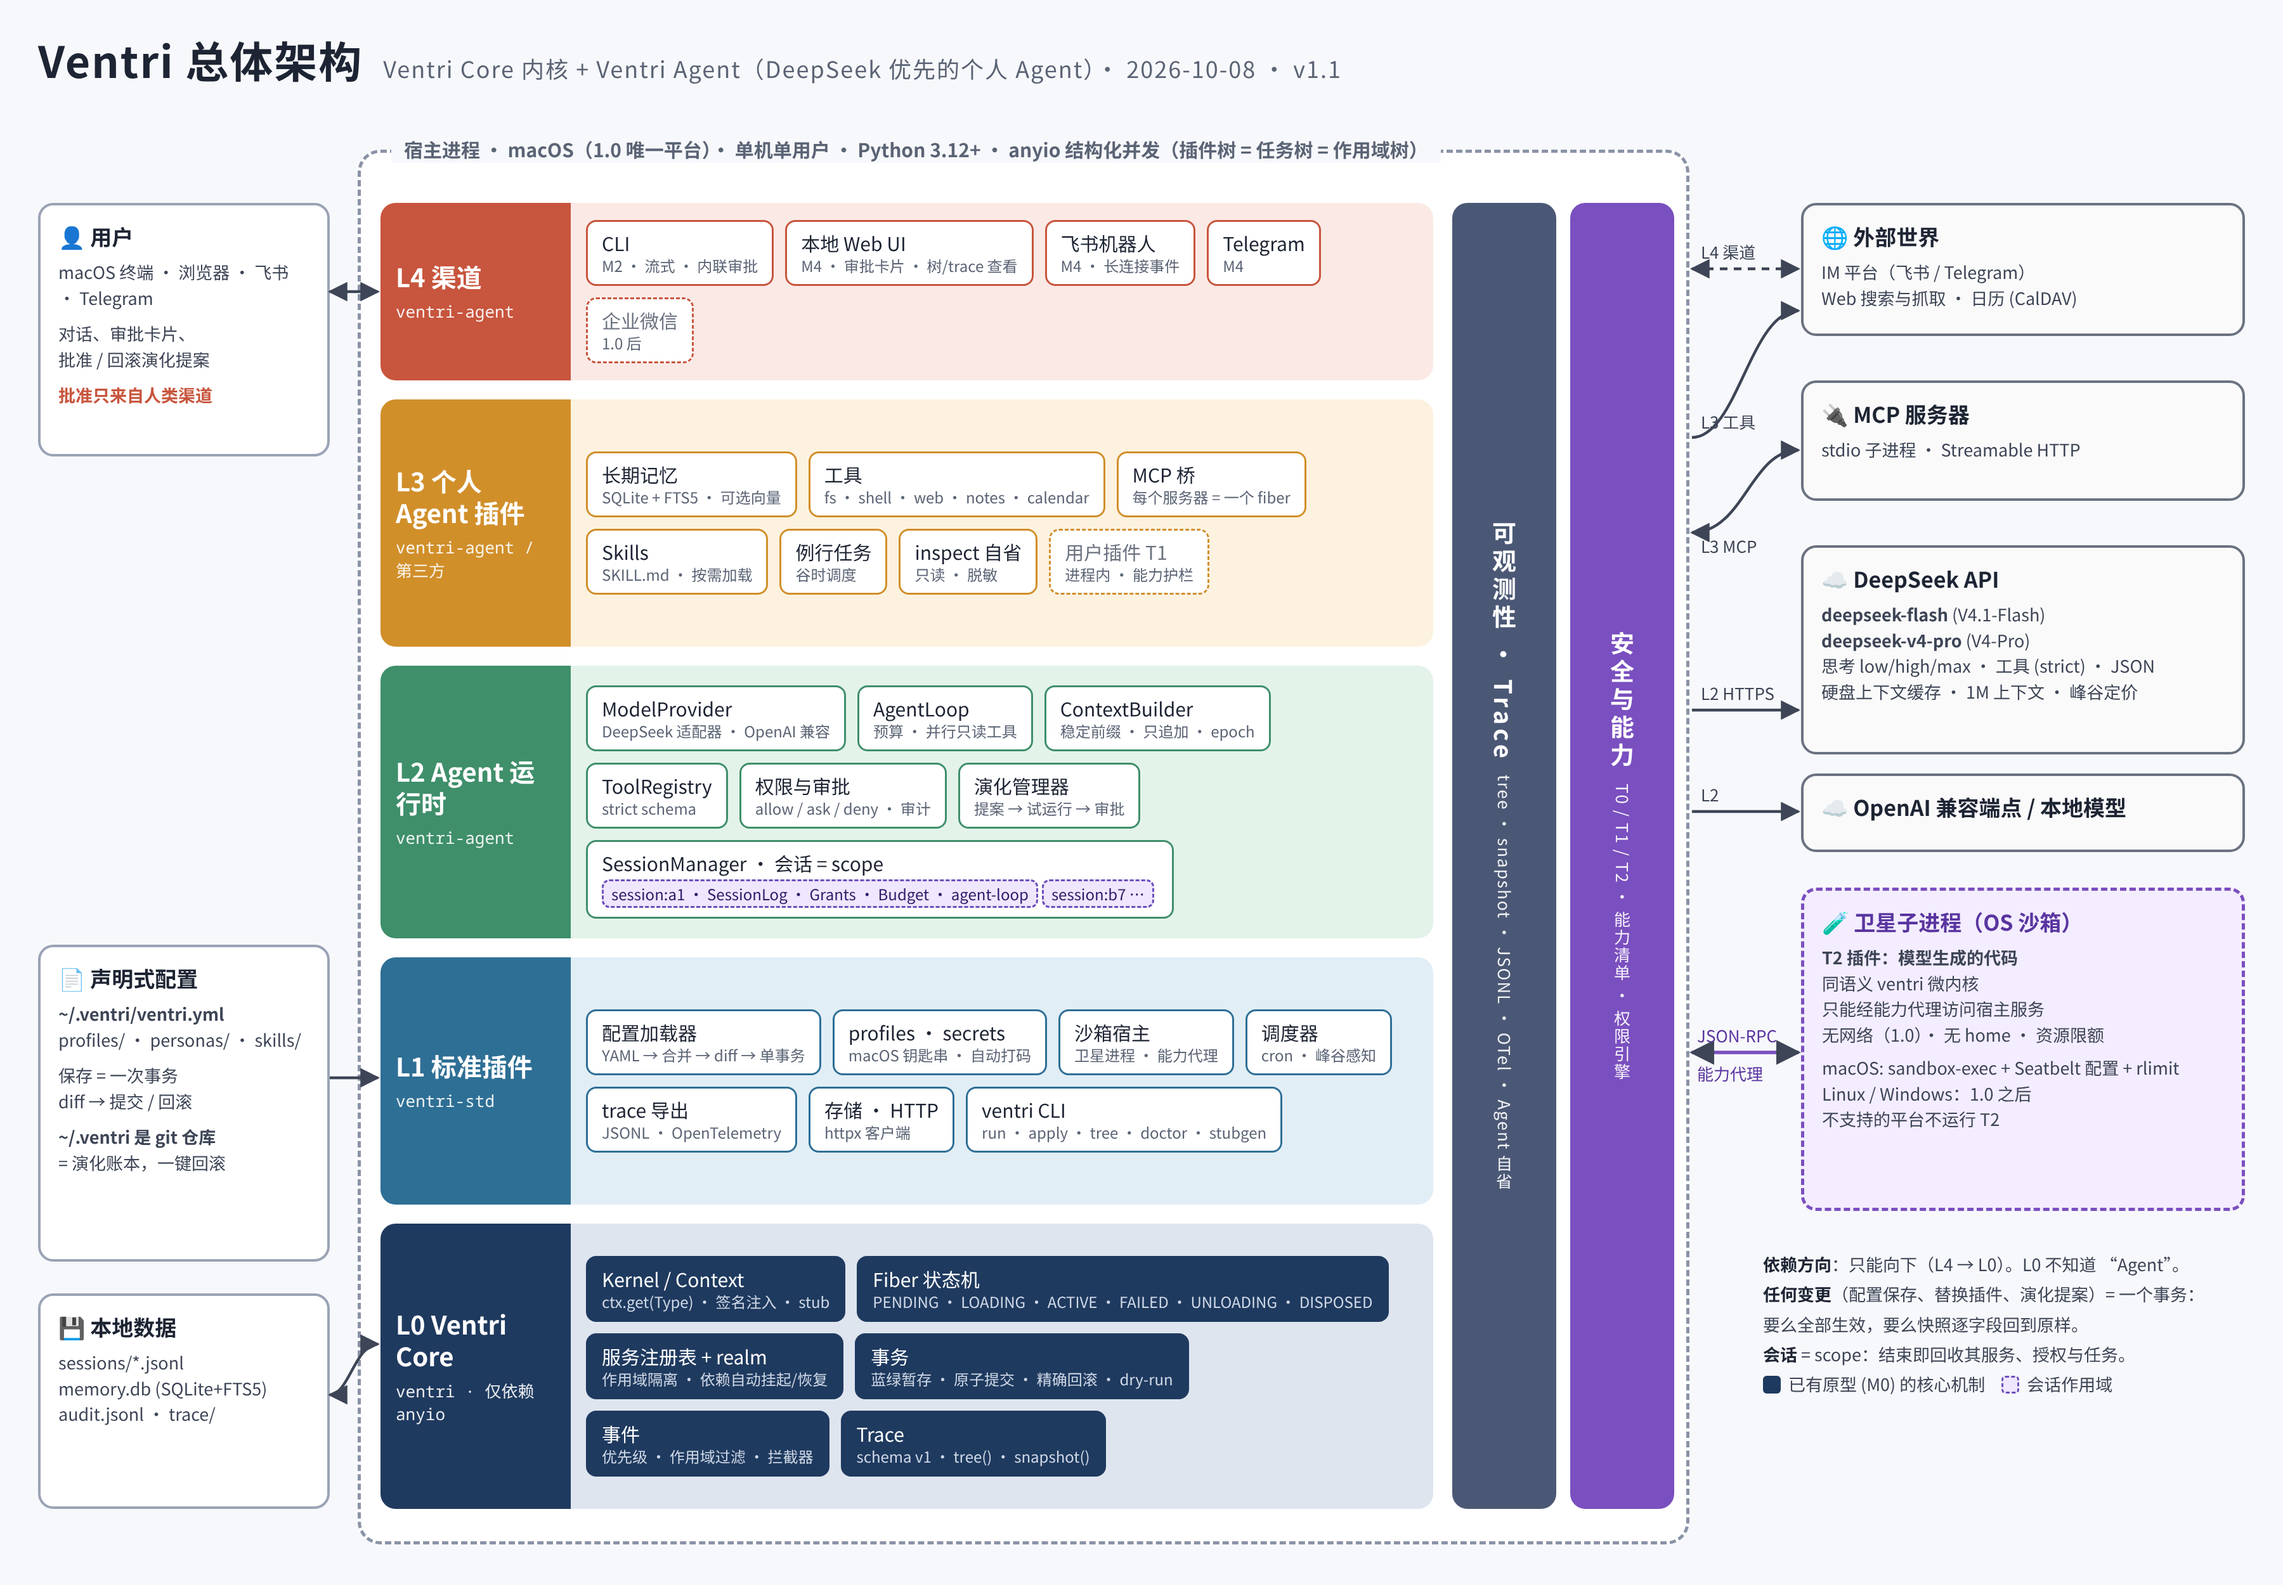
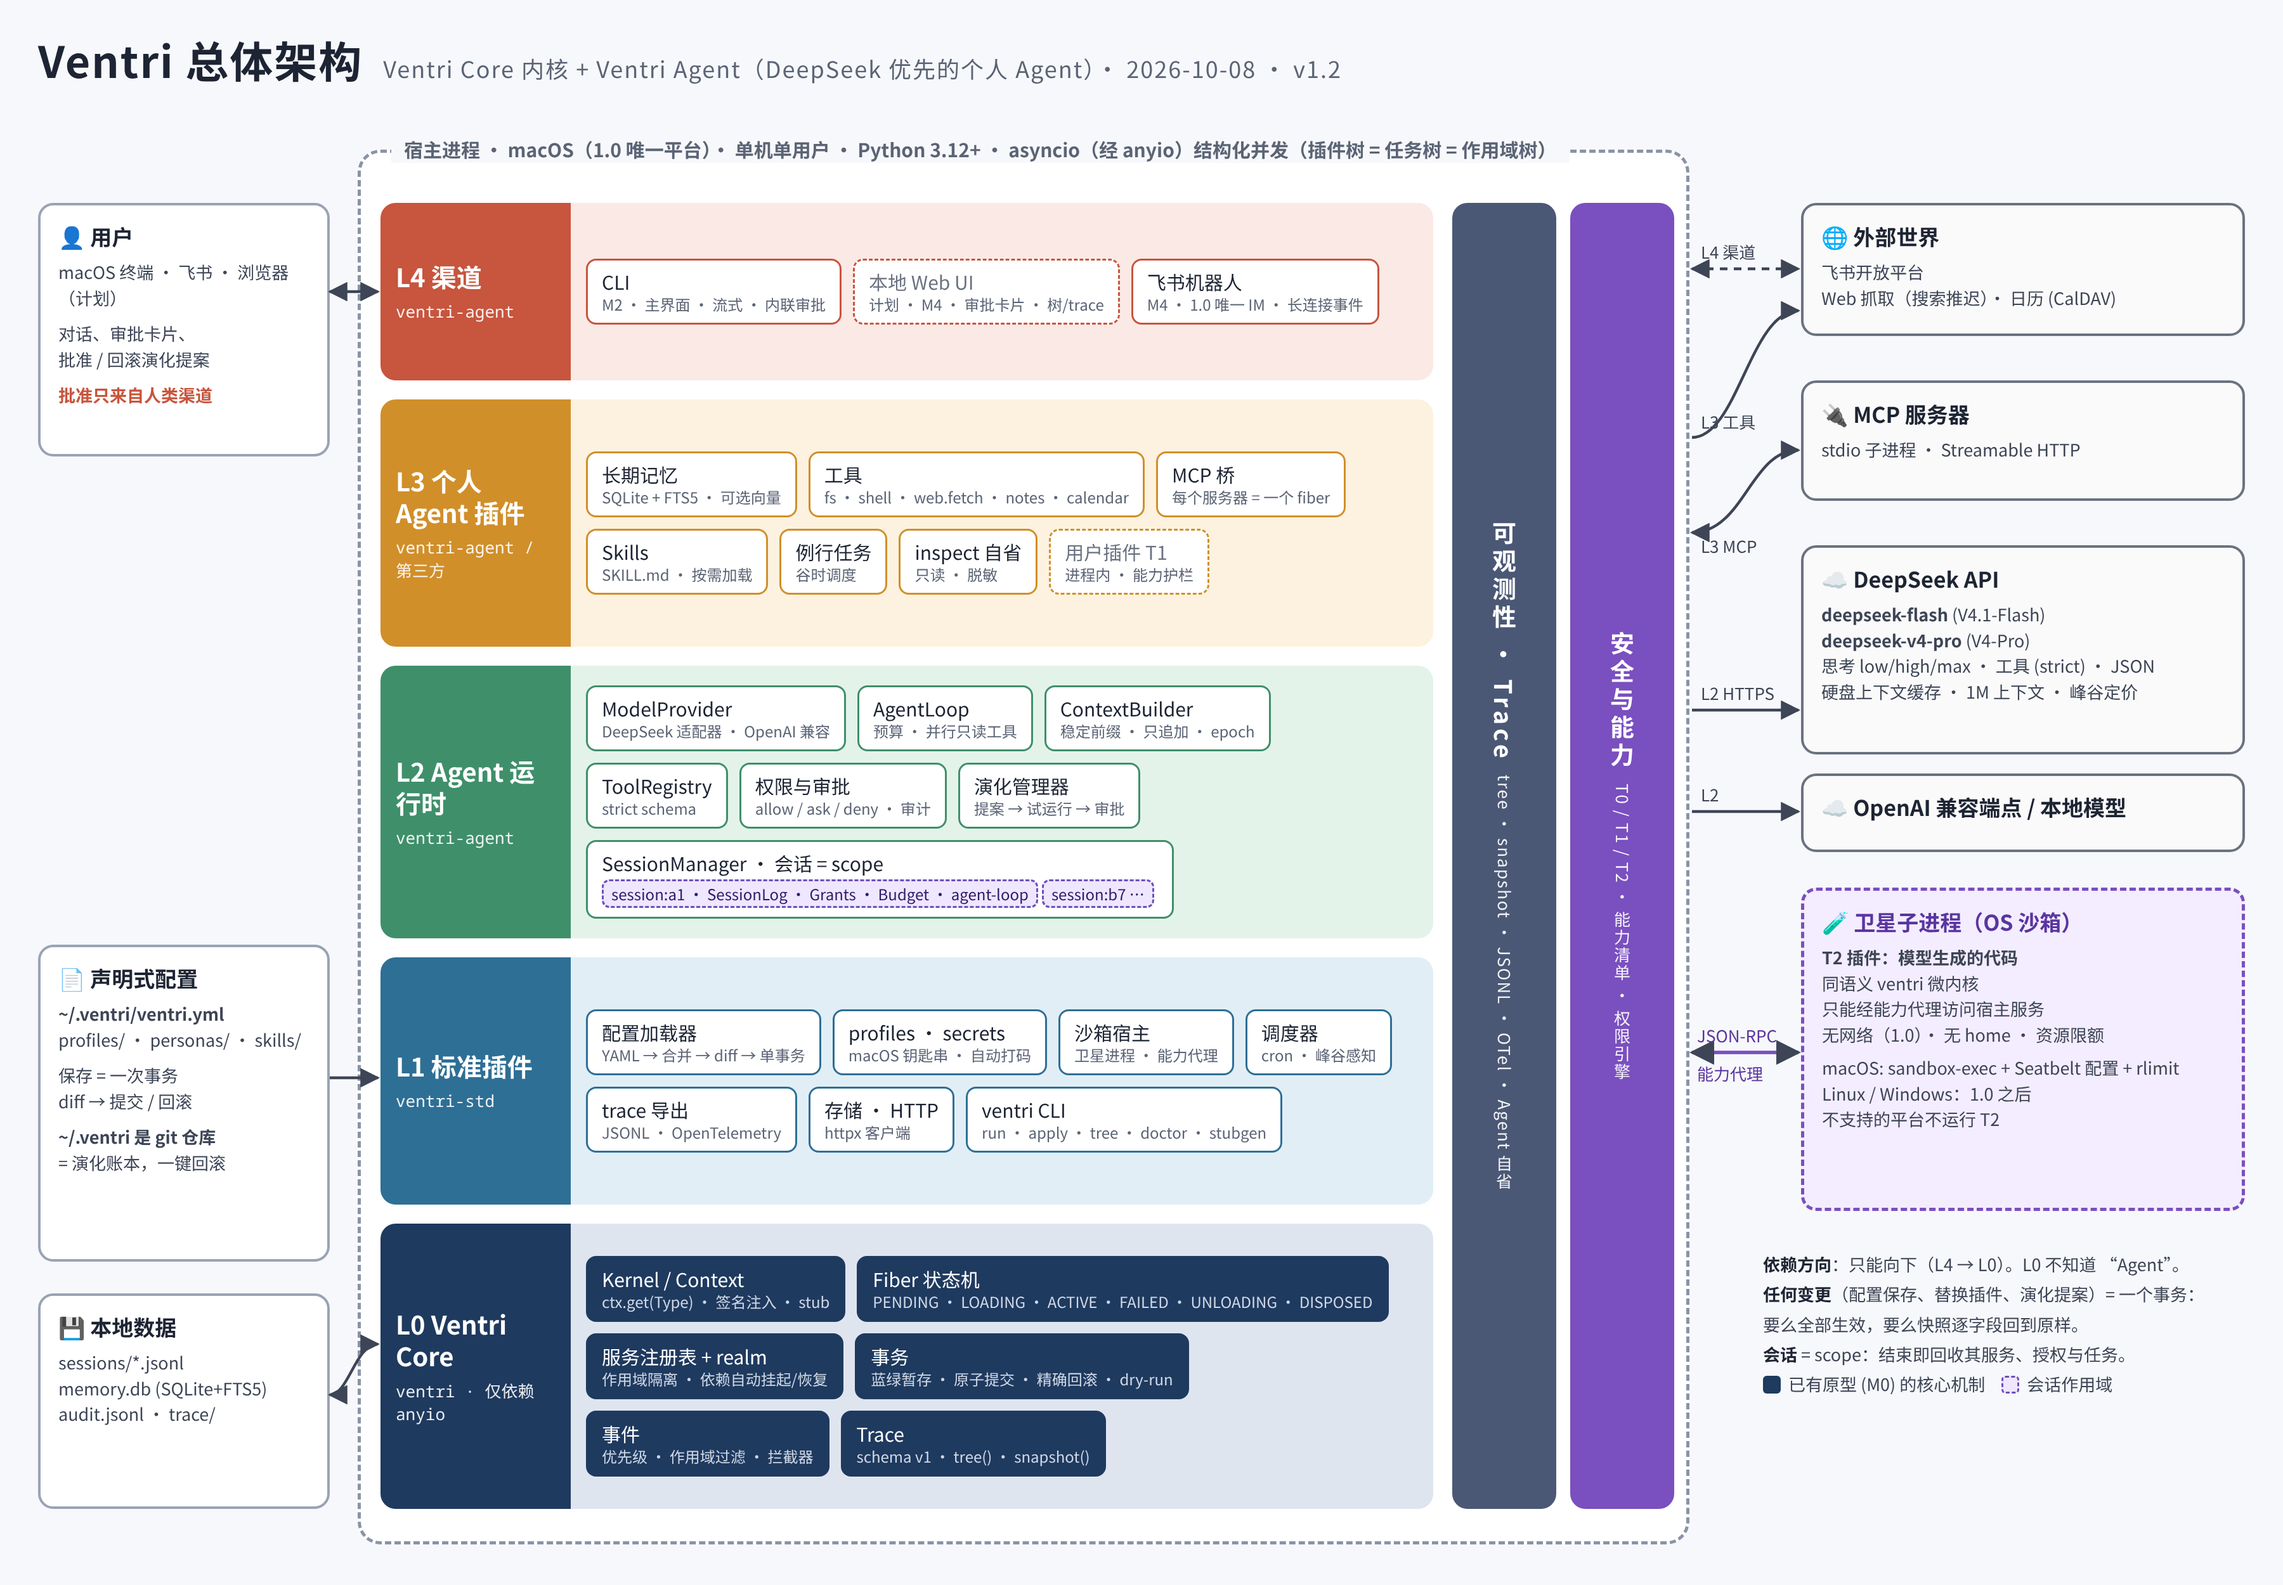
docs+tests: resolve remaining decisions (Ventri Agent/va, no GitHub org, Feishu-only IM, web search deferred, asyncio-only); drop trio

diff --git a/docs/build/architecture.html b/docs/build/architecture.html
@@ -37,12 +37,12 @@ h1 small{font-size:18px;font-weight:400;color:#5b6475;margin-left:16px}
 svg{position:absolute;left:0;top:0}
 .al{font-size:13px;fill:#3d4556;font-family:"Noto Sans CJK SC",sans-serif}
 </style></head><body>
-<h1>Ventri 总体架构<small>Ventri Core 内核 + Ventri Agent（DeepSeek 优先的个人 Agent）· 2026-10-08 · v1.1</small></h1>
+<h1>Ventri 总体架构<small>Ventri Core 内核 + Ventri Agent（DeepSeek 优先的个人 Agent）· 2026-10-08 · v1.2</small></h1>
 
 <!-- left column -->
 <div class="box" style="left:30px;top:160px;width:230px;height:200px">
   <h3>👤 用户</h3>
-  <p>macOS 终端 · 浏览器 · 飞书 · Telegram</p>
+  <p>macOS 终端 · 飞书 · 浏览器（计划）</p>
   <p style="margin-top:8px">对话、审批卡片、<br>批准 / 回滚演化提案</p>
   <p style="margin-top:8px;color:#c8553d"><b>批准只来自人类渠道</b></p>
 </div>
@@ -58,16 +58,14 @@ svg{position:absolute;left:0;top:0}
 </div>
 
 <!-- host frame -->
-<div class="abs frame" style="left:282px;top:118px;width:1050px;height:1100px"><div class="frame-label">宿主进程 · macOS（1.0 唯一平台）· 单机单用户 · Python 3.12+ · anyio 结构化并发（插件树 = 任务树 = 作用域树）</div></div>
+<div class="abs frame" style="left:282px;top:118px;width:1050px;height:1100px"><div class="frame-label">宿主进程 · macOS（1.0 唯一平台）· 单机单用户 · Python 3.12+ · asyncio（经 anyio）结构化并发（插件树 = 任务树 = 作用域树）</div></div>
 
 <div class="band L4" style="top:160px;height:140px">
   <div class="tag"><b>L4 渠道</b><span>ventri-agent</span></div>
   <div class="body">
-    <div class="chip">CLI<i>M2 · 流式 · 内联审批</i></div>
-    <div class="chip">本地 Web UI<i>M4 · 审批卡片 · 树/trace 查看</i></div>
-    <div class="chip">飞书机器人<i>M4 · 长连接事件</i></div>
-    <div class="chip">Telegram<i>M4</i></div>
-    <div class="chip dash">企业微信<i>1.0 后</i></div>
+    <div class="chip">CLI<i>M2 · 主界面 · 流式 · 内联审批</i></div>
+    <div class="chip dash">本地 Web UI<i>计划 · M4 · 审批卡片 · 树/trace</i></div>
+    <div class="chip">飞书机器人<i>M4 · 1.0 唯一 IM · 长连接事件</i></div>
   </div>
 </div>
 
@@ -75,7 +73,7 @@ svg{position:absolute;left:0;top:0}
   <div class="tag"><b>L3 个人 Agent 插件</b><span>ventri-agent / 第三方</span></div>
   <div class="body">
     <div class="chip">长期记忆<i>SQLite + FTS5 · 可选向量</i></div>
-    <div class="chip">工具<i>fs · shell · web · notes · calendar</i></div>
+    <div class="chip">工具<i>fs · shell · web.fetch · notes · calendar</i></div>
     <div class="chip">MCP 桥<i>每个服务器 = 一个 fiber</i></div>
     <div class="chip">Skills<i>SKILL.md · 按需加载</i></div>
     <div class="chip">例行任务<i>谷时调度</i></div>
@@ -128,7 +126,7 @@ svg{position:absolute;left:0;top:0}
 
 <!-- right column -->
 <div class="box ext" style="left:1420px;top:160px;width:350px;height:105px">
-  <h3>🌐 外部世界</h3><p>IM 平台（飞书 / Telegram）<br>Web 搜索与抓取 · 日历 (CalDAV)</p>
+  <h3>🌐 外部世界</h3><p>飞书开放平台<br>Web 抓取（搜索推迟）· 日历 (CalDAV)</p>
 </div>
 <div class="box ext" style="left:1420px;top:300px;width:350px;height:95px">
   <h3>🔌 MCP 服务器</h3><p>stdio 子进程 · Streamable HTTP</p>

diff --git a/tests/conftest.py b/tests/conftest.py
@@ -4,9 +4,10 @@ import pytest
 from ventri import plugin
 
 
-@pytest.fixture(params=["asyncio", "trio"])
-def anyio_backend(request):
-    return request.param
+@pytest.fixture
+def anyio_backend():
+    # Ventri supports asyncio only (DESIGN.md D11); anyio is an internal dependency.
+    return "asyncio"
 
 
 async def wait_for(pred, timeout=2.0):
